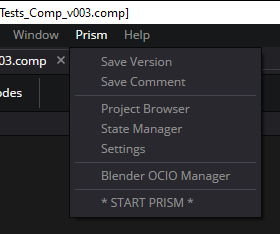
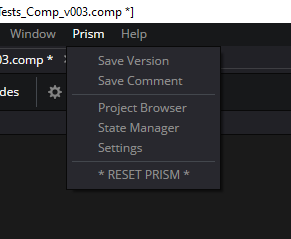
update

Changed region(s): [[0.0, 0.0, 1.0, 0.8974], [0.0, 0.359, 0.0857, 0.4188]]

diff --git a/Docs/Interface.md b/Docs/Interface.md
@@ -2,12 +2,27 @@
 
 <br/>
 
-Prism functions are accessed through the Prism menu in the top bar of Fusion Studio's UI.
+Prism functions are accessed through the Prism menu in the top bar of Fusion Studio's UI.  The menu will look familar to Prism users and contain the normal Prism functions.
 
-TODO
 
-TODO - NEW PIC AFTER MENU CLEANUP
-![Prism Menu](https://github.com/user-attachments/assets/3e5fca21-8ca6-458c-a593-b0398d207930)
-
+![Prism Menu](DocsImages/Prism_Menu.png)
 
 <br/>
+
+When Fusion is opened, and popup will display to allow the user to launch the Prism integration.
+
+![Startup Popup](DocsImages/Startup_Popup.png)
+
+The Prism functions are running in a dedicated process, so please note that only one Prism Fusion window can be open at a time.  For example if a user has the State Manager open through Fusion, it must be closed before the Project Browser ma be opened.
+
+The "RESET PRISM" button will restart/reload the Prism Functions inside of Fusion, and can be used if there are any glitches with Prism while Fusion is open.
+
+This integration into Fusion Studio uses Prism's State Manager and Project Browser for image rendering and importing.
+
+<br/>
+
+jump to:
+
+[**Rendering**](Docs/Rendering.md)
+
+[**Importing**](Docs/Importing.md)

diff --git a/Docs/Installation.md b/Docs/Installation.md
@@ -1,4 +1,5 @@
 ## **Installation**
+
 <br/>
 
 Copy the directory named "Fusion" to a directory of your choice, or a Prism2 plugin directory.
@@ -25,3 +26,13 @@ Afterwards, you can select the Plugin autoload as desired:
 To add the integration, go to the "DCC Apps" -> "Fusion" tab.  Then click the "add" button and navigate to the folder containing Fusion's "Scripts" directory - this is usually at "../AppData/Roaming/Blackmagic Design/Fusion".  If there is more than one version of Fusion installed, it is advisable to set the executable in the "Override" box in the DCC settings.
 
 ![Add DCC apps](DocsImages/Add_DCC_Apps.png)
+
+<br/>
+
+jump to:
+
+[**Interface**](Docs/Interface.md)
+
+[**Rendering**](Docs/Rendering.md)
+
+[**Importing**](Docs/Importing.md)

diff --git a/Docs/Rendering.md b/Docs/Rendering.md
@@ -3,4 +3,16 @@
 <br/>
 
 
-Prism's State Manager is used for rendering images from Fusion into the Prism pipeline and functions similar to other DCC integrations.  The main render state is the ImageRender which allows the user to
+Prism's State Manager is used for rendering images from Fusion into the Prism pipeline and functions similar to other DCC integrations.
+
+![SM Empty](DocsImages/SM-Empty.png)
+
+<br/>
+
+  The main render state is the ImageRender which allows the user to
+
+jump to:
+
+[**Interface**](Docs/Interface.md)
+
+[**Importing**](Docs/Importing.md)

diff --git a/Docs/Importing.md b/Docs/Importing.md
@@ -1,3 +1,12 @@
 ## **Importing**
 
 <br/>
+
+
+<br/>
+
+jump to:
+
+[**Interface**](Docs/Interface.md)
+
+[**Rendering**](Docs/Rendering.md)
